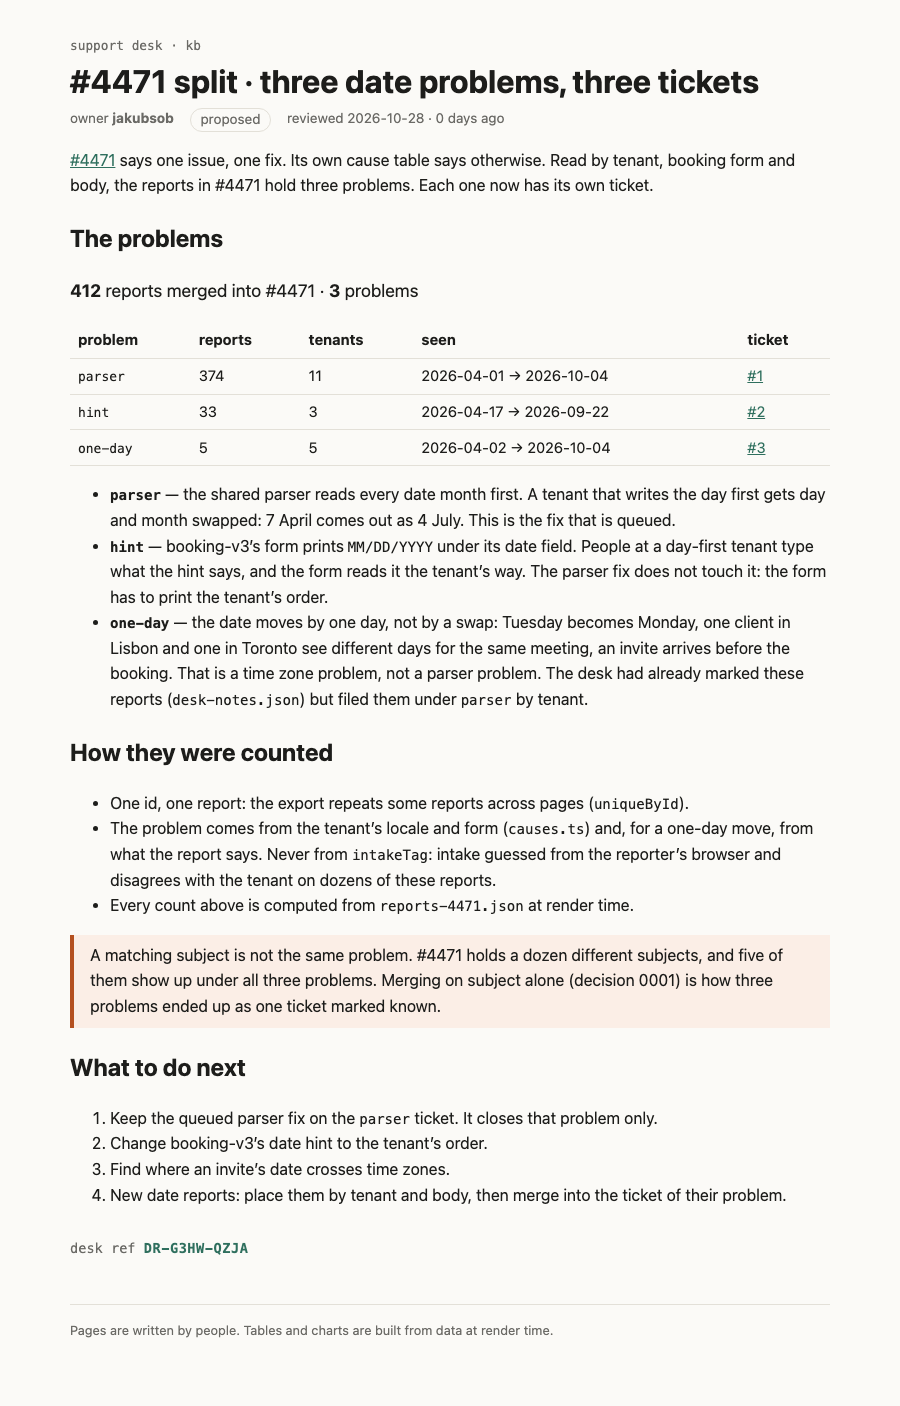
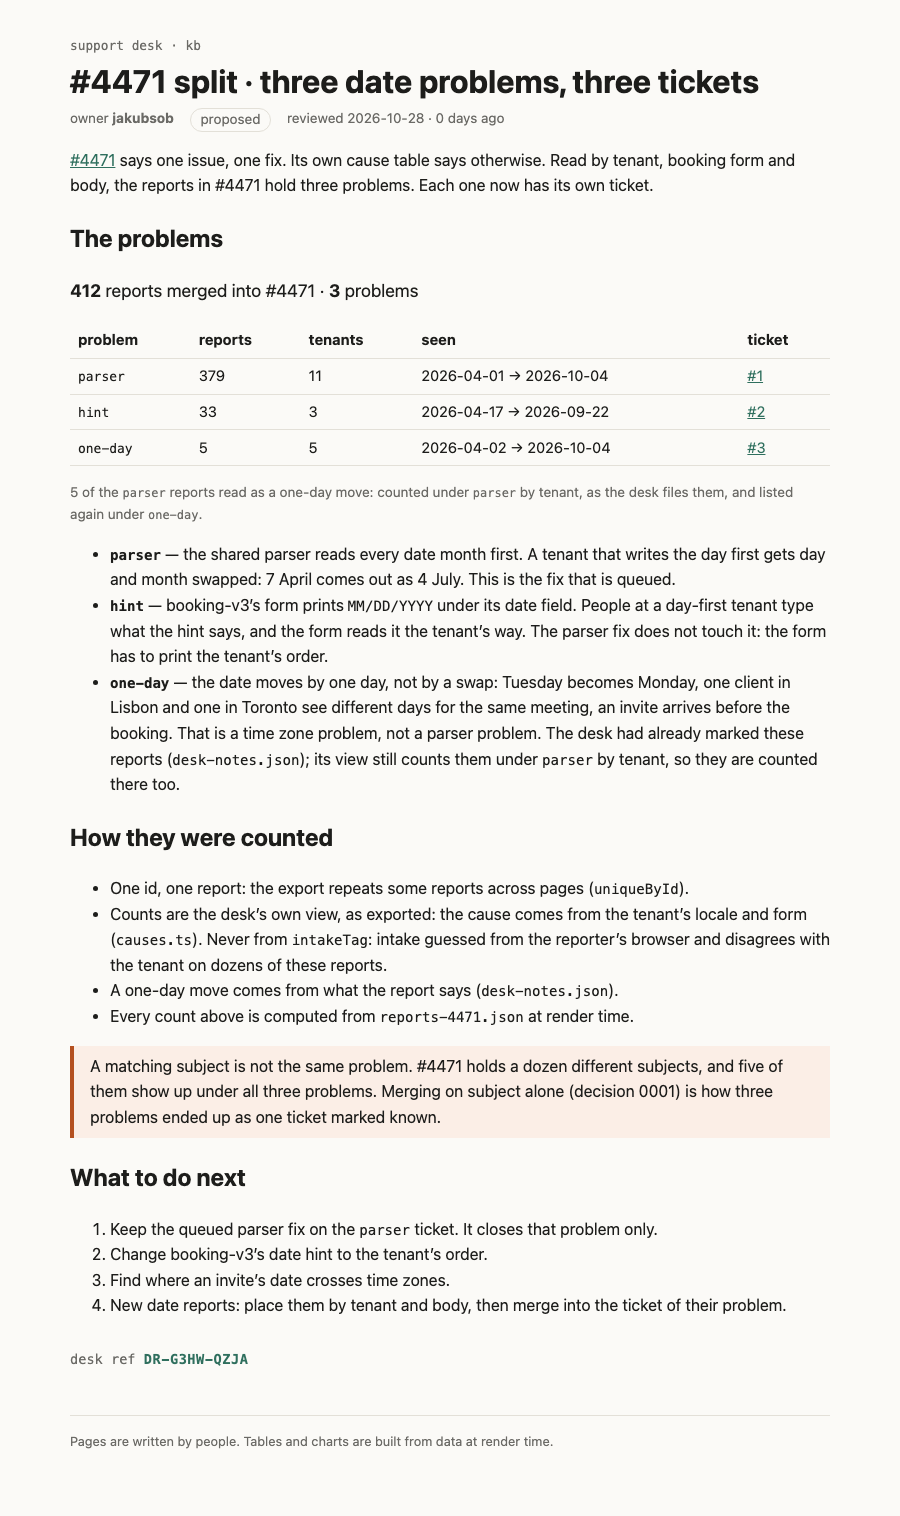
Count #4471's problems with the desk's own view
parser is 379 as CauseTable counts it; the 5 one-day reports stay under parser
and are listed again under one-day (#3). ProblemTable now reuses groupByCause
and readAs from causes.ts; problems.ts removed.

diff --git a/rendered/4471-split.html b/rendered/4471-split.html
@@ -3,53 +3,54 @@
   <head>
     <meta charset="utf-8" />
     <meta name="viewport" content="width=device-width, initial-scale=1" />
-    <link href="../../_app/immutable/entry/start.wvvhBIYE.js" rel="modulepreload">
+    <link href="../../_app/immutable/entry/start.CRHcivvj.js" rel="modulepreload">
 		<link href="../../_app/immutable/chunks/fruYDLqp.js" rel="modulepreload">
-		<link href="../../_app/immutable/chunks/Bg5el2p8.js" rel="modulepreload">
+		<link href="../../_app/immutable/chunks/UYgpzFxR.js" rel="modulepreload">
 		<link href="../../_app/immutable/chunks/Cbdj2qAo.js" rel="modulepreload">
-		<link href="../../_app/immutable/entry/app.4S9bwYW4.js" rel="modulepreload">
+		<link href="../../_app/immutable/entry/app.1O0ZFU1d.js" rel="modulepreload">
 		<link href="../../_app/immutable/chunks/BkYfdh9H.js" rel="modulepreload">
 		<link href="../../_app/immutable/chunks/BD3UdjSR.js" rel="modulepreload">
 		<link href="../../_app/immutable/chunks/wnmzq4eU.js" rel="modulepreload">
 		<link href="../../_app/immutable/chunks/TGQFHf5e.js" rel="modulepreload">
 		<link href="../../_app/immutable/nodes/0.CCpBT1ka.js" rel="modulepreload">
 		<link href="../../_app/immutable/chunks/ybC49tkz.js" rel="modulepreload">
-		<link href="../../_app/immutable/nodes/5.D9nIzMG0.js" rel="modulepreload">
-		<link href="../../_app/immutable/chunks/CBfrZyjI.js" rel="modulepreload">
+		<link href="../../_app/immutable/nodes/5.DZO8wLcM.js" rel="modulepreload">
+		<link href="../../_app/immutable/chunks/BsPFfOVa.js" rel="modulepreload">
 		<link href="../../_app/immutable/chunks/DFPV7QJw.js" rel="modulepreload">
-		<link href="../../_app/immutable/chunks/BxbUfnXU.js" rel="modulepreload">
+		<link href="../../_app/immutable/chunks/M7cEM8C8.js" rel="modulepreload">
 		<link href="../../_app/immutable/chunks/iXLSwIXB.js" rel="modulepreload">
 		<!--e2jw2j--><!----><title>#4471 split · three date problems, three tickets · support kb</title>
 		<link href="../../_app/immutable/assets/runbook.BhhgOc_n.css" rel="stylesheet">
 		<link href="../../_app/immutable/assets/Callout.yLErXQDM.css" rel="stylesheet">
-		<link href="../../_app/immutable/assets/5.Ca1t4PKl.css" rel="stylesheet">
+		<link href="../../_app/immutable/assets/5.HUsFaEG0.css" rel="stylesheet">
   </head>
   <body>
     <div style="display: contents"><!--[--><!--[0--><!--[--><!--[--><div class="kb svelte-e2jw2j"><header><a class="crumb svelte-e2jw2j" href="/kb">support desk · kb</a> <h1 class="svelte-e2jw2j">#4471 split · three date problems, three tickets</h1> <p class="meta svelte-e2jw2j"><span>owner <b>jakubsob</b></span> <span class="status proposed svelte-e2jw2j">proposed</span> <span class="svelte-e2jw2j">reviewed 2026-10-28 · 0 days ago</span></p></header> <!--[-1--><!--]--> <main><p><a href="/kb/incidents/4471">#4471</a> says one issue, one fix. Its own cause table says otherwise. Read by
 tenant, booking form and body, the reports in #4471 hold three problems. Each one now has its own
-ticket.</p> <h2>The problems</h2> <p class="sum svelte-1op6c6"><strong>412</strong> reports merged into #4471 · <strong>3</strong> problems</p> <table><thead><tr><th>problem</th><th>reports</th><th>tenants</th><th>seen</th><th>ticket</th></tr></thead><tbody><!--[--><tr class="svelte-1op6c6"><td class="svelte-1op6c6"><code>parser</code></td><td class="svelte-1op6c6">374</td><td class="svelte-1op6c6">11</td><td class="svelte-1op6c6">2026-04-01 → 2026-10-04</td><td class="svelte-1op6c6"><!--[0--><a href="https://github.com/jakubsob/megadev-support-kb-4471/issues/1">#1</a><!--]--></td></tr><tr class="svelte-1op6c6"><td class="svelte-1op6c6"><code>hint</code></td><td class="svelte-1op6c6">33</td><td class="svelte-1op6c6">3</td><td class="svelte-1op6c6">2026-04-17 → 2026-09-22</td><td class="svelte-1op6c6"><!--[0--><a href="https://github.com/jakubsob/megadev-support-kb-4471/issues/2">#2</a><!--]--></td></tr><tr class="svelte-1op6c6"><td class="svelte-1op6c6"><code>one-day</code></td><td class="svelte-1op6c6">5</td><td class="svelte-1op6c6">5</td><td class="svelte-1op6c6">2026-04-02 → 2026-10-04</td><td class="svelte-1op6c6"><!--[0--><a href="https://github.com/jakubsob/megadev-support-kb-4471/issues/3">#3</a><!--]--></td></tr><!--]--></tbody></table><!----> <ul><li><strong><code>parser</code></strong> — the shared parser reads every date month first. A tenant that writes the day
+ticket.</p> <h2>The problems</h2> <p class="sum svelte-1op6c6"><strong>412</strong> reports merged into #4471 · <strong>3</strong> problems</p> <table><thead><tr><th>problem</th><th>reports</th><th>tenants</th><th>seen</th><th>ticket</th></tr></thead><tbody><!--[--><tr><td><code>parser</code></td><td>379</td><td>11</td><td>2026-04-01 → 2026-10-04</td><td><!--[0--><a href="https://github.com/jakubsob/megadev-support-kb-4471/issues/1">#1</a><!--]--></td></tr><tr><td><code>hint</code></td><td>33</td><td>3</td><td>2026-04-17 → 2026-09-22</td><td><!--[0--><a href="https://github.com/jakubsob/megadev-support-kb-4471/issues/2">#2</a><!--]--></td></tr><!--]--><tr><td><code>one-day</code></td><td>5</td><td>5</td><td>2026-04-02 → 2026-10-04</td><td><!--[0--><a href="https://github.com/jakubsob/megadev-support-kb-4471/issues/3">#3</a><!--]--></td></tr></tbody></table> <!--[--><!--[0--><p class="note svelte-1op6c6">5 of the <code>parser</code> reports read as a one-day move: counted under <code>parser</code> by tenant, as the desk files them, and listed again under <code>one-day</code>.</p><!--]--><!--[-1--><!--]--><!--]--><!----> <ul><li><strong><code>parser</code></strong> — the shared parser reads every date month first. A tenant that writes the day
 first gets day and month swapped: 7 April comes out as 4 July. This is the fix that is queued.</li> <li><strong><code>hint</code></strong> — booking-v3’s form prints <code>MM/DD/YYYY</code> under its date field. People at a day-first
 tenant type what the hint says, and the form reads it the tenant’s way. The parser fix does not
 touch it: the form has to print the tenant’s order.</li> <li><strong><code>one-day</code></strong> — the date moves by one day, not by a swap: Tuesday becomes Monday, one client in
 Lisbon and one in Toronto see different days for the same meeting, an invite arrives before the
 booking. That is a time zone problem, not a parser problem. The desk had already marked these
-reports (<code>desk-notes.json</code>) but filed them under <code>parser</code> by tenant.</li></ul> <h2>How they were counted</h2> <ul><li>One id, one report: the export repeats some reports across pages (<code>uniqueById</code>).</li> <li>The problem comes from the tenant’s locale and form (<code>causes.ts</code>) and, for a one-day move, from
-what the report says. Never from <code>intakeTag</code>: intake guessed from the reporter’s browser and
-disagrees with the tenant on dozens of these reports.</li> <li>Every count above is computed from <code>reports-4471.json</code> at render time.</li></ul> <aside class="warn svelte-17bri61"><!---->A matching subject is not the same problem. #4471 holds a dozen different subjects, and five of them
+reports (<code>desk-notes.json</code>); its view still counts them under <code>parser</code> by tenant, so they are
+counted there too.</li></ul> <h2>How they were counted</h2> <ul><li>One id, one report: the export repeats some reports across pages (<code>uniqueById</code>).</li> <li>Counts are the desk’s own view, as exported: the cause comes from the tenant’s locale and form
+(<code>causes.ts</code>). Never from <code>intakeTag</code>: intake guessed from the reporter’s browser and disagrees
+with the tenant on dozens of these reports.</li> <li>A one-day move comes from what the report says (<code>desk-notes.json</code>).</li> <li>Every count above is computed from <code>reports-4471.json</code> at render time.</li></ul> <aside class="warn svelte-17bri61"><!---->A matching subject is not the same problem. #4471 holds a dozen different subjects, and five of them
 show up under all three problems. Merging on subject alone (decision 0001) is how three
 problems ended up as one ticket marked known.<!----></aside><!----> <h2>What to do next</h2> <ol><li>Keep the queued parser fix on the <code>parser</code> ticket. It closes that problem only.</li> <li>Change booking-v3’s date hint to the tenant’s order.</li> <li>Find where an invite’s date crosses time zones.</li> <li>New date reports: place them by tenant and body, then merge into the ticket of their problem.</li></ol> <!--[0--><p class="stamp svelte-1280m42">desk ref <b class="svelte-1280m42">DR-G3HW-QZJA</b></p><!--]--><!----><!----></main> <footer class="svelte-e2jw2j">Pages are written by people. Tables and charts are built from data at render time.</footer></div><!--]--><!----><!--]--><!--]--> <!--[-1--><!--]--><!--]-->
 			
 			<script>
 				{
-					__sveltekit_1d4t65x = {
+					__sveltekit_16hqdpw = {
 						base: new URL("../..", location).pathname.slice(0, -1)
 					};
 
 					const element = document.currentScript.parentElement;
 
 					Promise.all([
-						import("../../_app/immutable/entry/start.wvvhBIYE.js"),
-						import("../../_app/immutable/entry/app.4S9bwYW4.js")
+						import("../../_app/immutable/entry/start.CRHcivvj.js"),
+						import("../../_app/immutable/entry/app.1O0ZFU1d.js")
 					]).then(([kit, app]) => {
 						kit.start(app, element, {
 							node_ids: [0, 5],

diff --git a/src/lib/kb/ProblemTable.svelte b/src/lib/kb/ProblemTable.svelte
@@ -1,20 +1,21 @@
 <script lang="ts">
   import reports from '#lib/data/reports-4471.json';
   import notes from '#lib/data/desk-notes.json';
-  import { type Report } from '#lib/kb/causes';
-  import { groupByProblem, type Problem } from '#lib/kb/problems';
+  import { groupByCause, readAs, uniqueById, type Report } from '#lib/kb/causes';
   import { tenantOf } from '#lib/kb/locales';
 
-  // tickets: problem → the ticket that now owns it (its url).
-  let { ticket, tickets }: { ticket: number; tickets: Partial<Record<Problem, string>> } = $props();
+  // The desk's own view (as CauseTable counts it), one ticket per problem.
+  // tickets: problem → the url of the ticket that now owns it.
+  let { ticket, tickets }: { ticket: number; tickets: Record<string, string> } = $props();
 
-  const groups = $derived(groupByProblem(reports as Report[], ticket, tenantOf, notes.oneDayMove));
-  const total = $derived(groups.reduce((n, g) => n + g.reports.length, 0));
+  const merged = $derived(uniqueById(reports as Report[]).filter((r) => r.mergedInto === ticket));
+  const groups = $derived(groupByCause(merged, tenantOf));
+  const oneDay = $derived(merged.filter((r) => notes.oneDayMove.includes(r.id)));
   const ticketNo = (url: string) => '#' + url.split('/').pop();
 </script>
 
 <p class="sum">
-  <strong>{total}</strong> reports merged into #{ticket} · <strong>{groups.length}</strong> problems
+  <strong>{merged.length}</strong> reports merged into #{ticket} · <strong>{groups.length + 1}</strong> problems
 </p>
 
 <table>
@@ -22,20 +23,33 @@
     <tr><th>problem</th><th>reports</th><th>tenants</th><th>seen</th><th>ticket</th></tr>
   </thead>
   <tbody>
-    {#each groups as g (g.problem)}
-      <tr class:open={!tickets[g.problem]}>
-        <td><code>{g.problem}</code></td>
+    {#each groups as g (g.cause)}
+      <tr>
+        <td><code>{g.cause}</code></td>
         <td>{g.reports.length}</td>
         <td>{g.tenants}</td>
         <td>{g.firstSeen} → {g.lastSeen}</td>
-        <td>{#if tickets[g.problem]}<a href={tickets[g.problem]}>{ticketNo(tickets[g.problem]!)}</a>{:else}no ticket yet{/if}</td>
+        <td>{#if tickets[g.cause]}<a href={tickets[g.cause]}>{ticketNo(tickets[g.cause])}</a>{:else}no ticket yet{/if}</td>
       </tr>
     {/each}
+    <tr>
+      <td><code>one-day</code></td>
+      <td>{oneDay.length}</td>
+      <td>{new Set(oneDay.map((r) => r.tenant)).size}</td>
+      <td>{oneDay.map((r) => r.receivedAt.slice(0, 10)).sort()[0]} → {oneDay.map((r) => r.receivedAt.slice(0, 10)).sort().at(-1)}</td>
+      <td>{#if tickets['one-day']}<a href={tickets['one-day']}>{ticketNo(tickets['one-day'])}</a>{:else}no ticket yet{/if}</td>
+    </tr>
   </tbody>
 </table>
 
+{#each groups as g (g.cause)}
+  {@const moved = readAs(g, notes.oneDayMove)}
+  {#if moved}
+    <p class="note">{moved} of the <code>{g.cause}</code> reports read as a one-day move: counted under <code>{g.cause}</code> by tenant, as the desk files them, and listed again under <code>one-day</code>.</p>
+  {/if}
+{/each}
+
 <style>
   .sum { font-size: 1.1rem; }
-  .open td { background: var(--warn-bg); }
-  .open td:last-child { color: var(--warn); font-weight: 600; }
+  .note { color: var(--muted); font-size: 0.85em; }
 </style>
